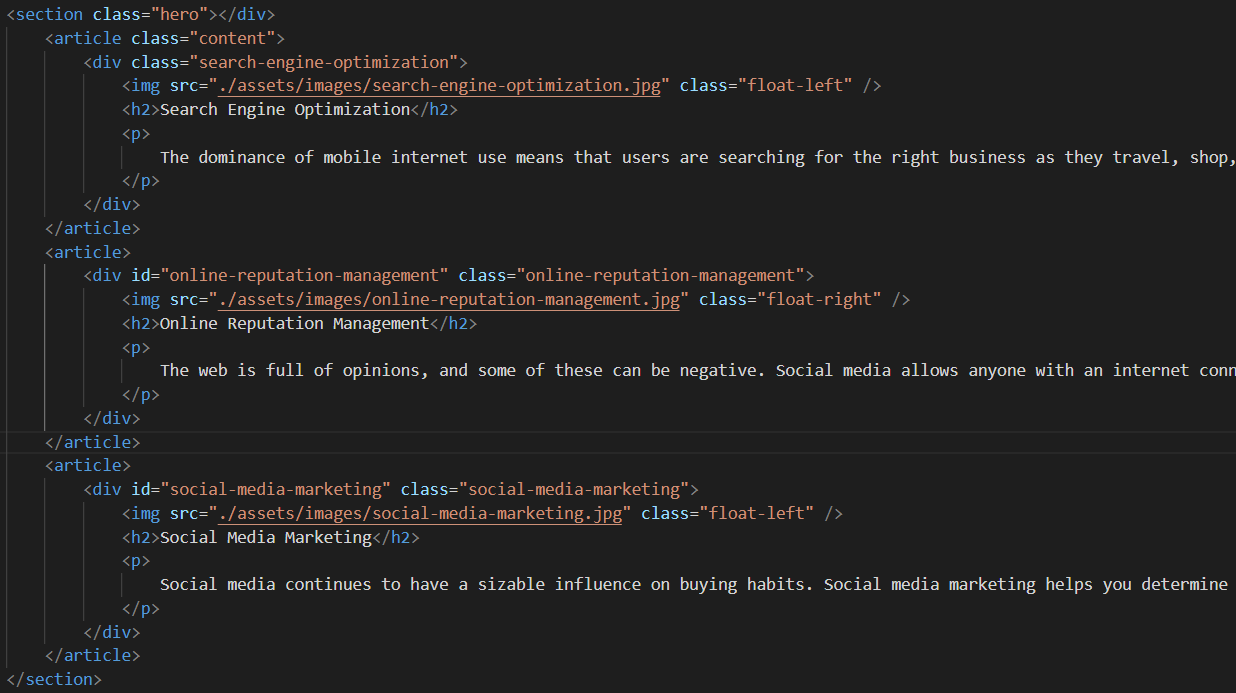
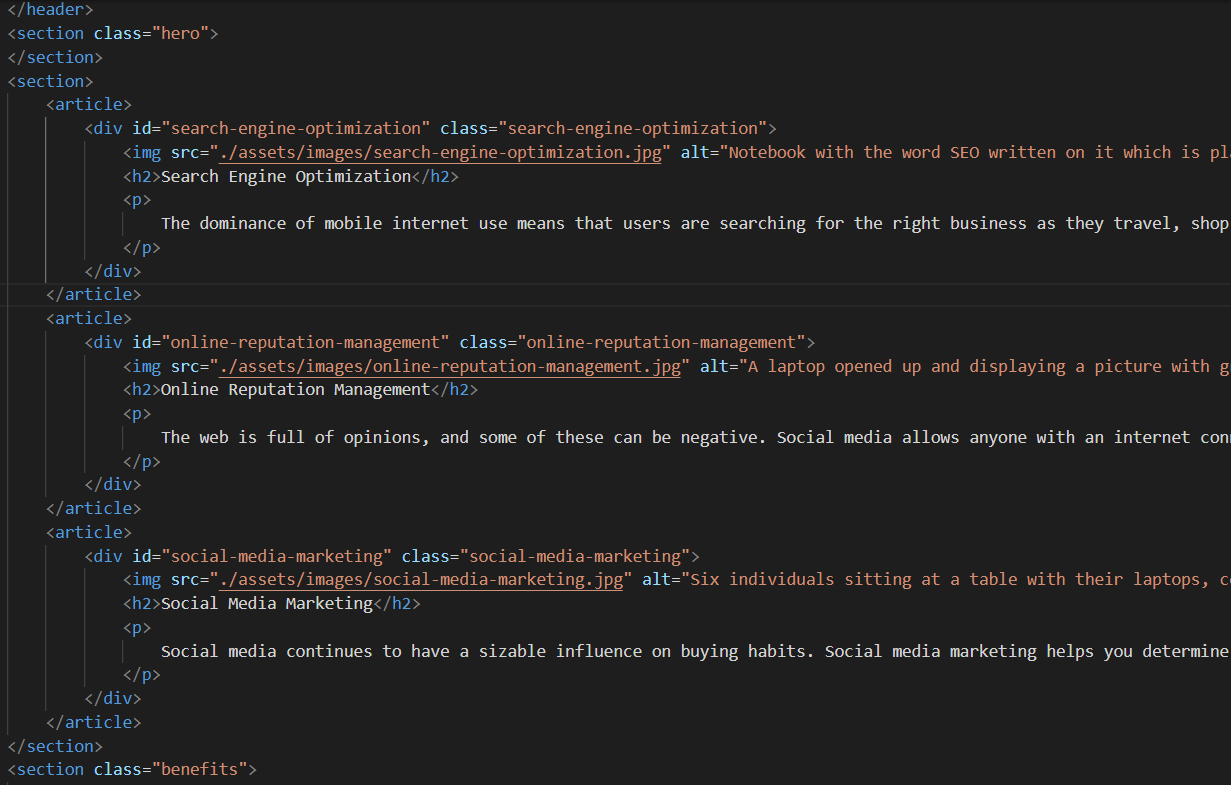
Made the hero section its own section separate from the SEO, reputation, and Social Media articles. Updated the README.md file. Made sure that the content class was linked to the benefits section so that it flowed correctly.

Changed region(s): [[0.0, 0.0, 1.0, 0.8182], [0.0, 0.8182, 1.0, 1.0], [0.6174, 0.0909, 0.6791, 0.1515]]

diff --git a/Develop/assets/css/style.css b/Develop/assets/css/style.css
@@ -51,6 +51,18 @@ p {
     font-size: 16px;
 }
 
+/*apply style to footer*/
+.footer {
+    padding: 30px;
+    clear: both;
+    font-family: 'Trebuchet MS', 'Lucida Sans Unicode', 'Lucida Grande', 'Lucida Sans', Arial, sans-serif;
+    text-align: center;
+}
+
+.footer h2 {
+    font-size: 20px;
+}
+
 /*start hero styling*/
 .hero {
     height: 800px;
@@ -60,6 +72,8 @@ p {
     background-size: cover;
     background-position: center;
 }
+
+/*start styling for the SEO, Reputation, and Social Media section*/
 
 .float-left {
     float: left;
@@ -84,6 +98,7 @@ p {
     font-family: 'Gill Sans', 'Gill Sans MT', Calibri, 'Trebuchet MS', sans-serif;
     background-color: #0072bb;
     color: #ffffff;
+    width: 100%;
 }
 
 .online-reputation-management {
@@ -93,6 +108,7 @@ p {
     font-family: 'Gill Sans', 'Gill Sans MT', Calibri, 'Trebuchet MS', sans-serif;
     background-color: #0072bb;
     color: #ffffff;
+    width:100%;
 }
 
 .social-media-marketing {
@@ -102,6 +118,7 @@ p {
     font-family: 'Gill Sans', 'Gill Sans MT', Calibri, 'Trebuchet MS', sans-serif;
     background-color: #0072bb;
     color: #ffffff;
+    width: 100%;
 }
 
 .search-engine-optimization img {
@@ -246,7 +263,7 @@ p {
     font-size: 36px; */
 }
 
-.footer {
+/* .footer {
     padding: 30px;
     clear: both;
     font-family: 'Trebuchet MS', 'Lucida Sans Unicode', 'Lucida Grande', 'Lucida Sans', Arial, sans-serif;
@@ -255,4 +272,4 @@ p {
 
 .footer h2 {
     font-size: 20px;
-}
+} */

diff --git a/Develop/index.html b/Develop/index.html
@@ -23,8 +23,10 @@
             </div>
         </header>
         <section class="hero">
-            <article class="">
-                <div class="search-engine-optimization">
+        </section>
+        <section class="content">
+            <article>
+                <div id="search-engine-optimization" class="search-engine-optimization">
                     <img src="./assets/images/search-engine-optimization.jpg" alt="Notebook with the word SEO written on it which is placed on a table next to a laptop and a cup of coffee to depict efficiency and the importance of SEOs" class="float-left" />
                     <h2>Search Engine Optimization</h2>
                     <p>

diff --git a/README.md b/README.md
@@ -15,20 +15,16 @@
 
 ## 🗒HTML File Updates:
 
-**Changes made to fulfill criteria: When I veiw the source code - then I find semantic elements** </br>
+**Changes made to fulfill criterias: When I veiw the source code - then I find semantic elements; </br> When I view the structure of the HTML elements - then I find that the elements follow a logical structure independent of styling and positioning** </br>
+
 * Adjusted the head and body to be tabbed in from HTML and removed unnecessary line spaces.
-![alt text](./screenshots/screenshot-one.png)
 * Changed the div tag for the header to be a header tag as well as its respective closing tag.
-* Changed the div tag for the hero to be a section tag and moved the closing tag for the section to it's appropriate spot at the bottom of the code block.
-* Changed the tags for the "search engine optimization", "online reputation management", and "social media marketing" content blocks to article tags and added respective closing tags.
+* Changed the div tag for the hero to be a section tag and moved the closing tag for the section to it's appropriate spot at the bottom of the code block. Split the hero section from the SEO, Reputation, and Social Media Section.
+* Changed the tags for the "search engine optimization", "online reputation management", and "social media marketing" content blocks to article tags and added respective closing tags. Also enclosed the article tags within open and ending section tags.
 ![alt text](./screenshots/screenshot-two.png)
+* assigned the class "content" to the section encompassing the SEO, rep, and Social media articles.
 * Changed the div tag for the benefit to be a section tag as well as its respective closing tag. I left the tags inside of the benefit section as divs since their content isn't independent content.
 * Changed the div tag for the footer to be a footer tag as well as its respective closing tag.
-
-</br>
-</br>
-
-**Changes made to fulfill criteria: When I view the structure of the HTML elements - then I find that the elements follow a logical structure independent of styling and positioning** </br>
 
 </br>
 </br>
@@ -49,6 +45,8 @@
 **Changes made to fulfill criteria: When I view the title element - then I find concise, descriptive title** </br>
 * Changed the title in the head to be Horiseon Homepage following semantic html to indicate where the user is located on the website.
 
+</br>
+
 ## 🗒CSS File Updates to ensure that the CSS code is cascading correctly and is free of repeating code:
 
 **Changes made to Header Section:**
@@ -58,5 +56,8 @@
 * All of the styling for the search engine optimization, online reputation management, and social media marketing articles was moved up in the CSS file to be under the hero section styling.
 
 **Changes made to Benefits Section:**
+
+**Changes made to the Footer Section:**
+* Moved the footers css styling to be under the header styling
 
 
